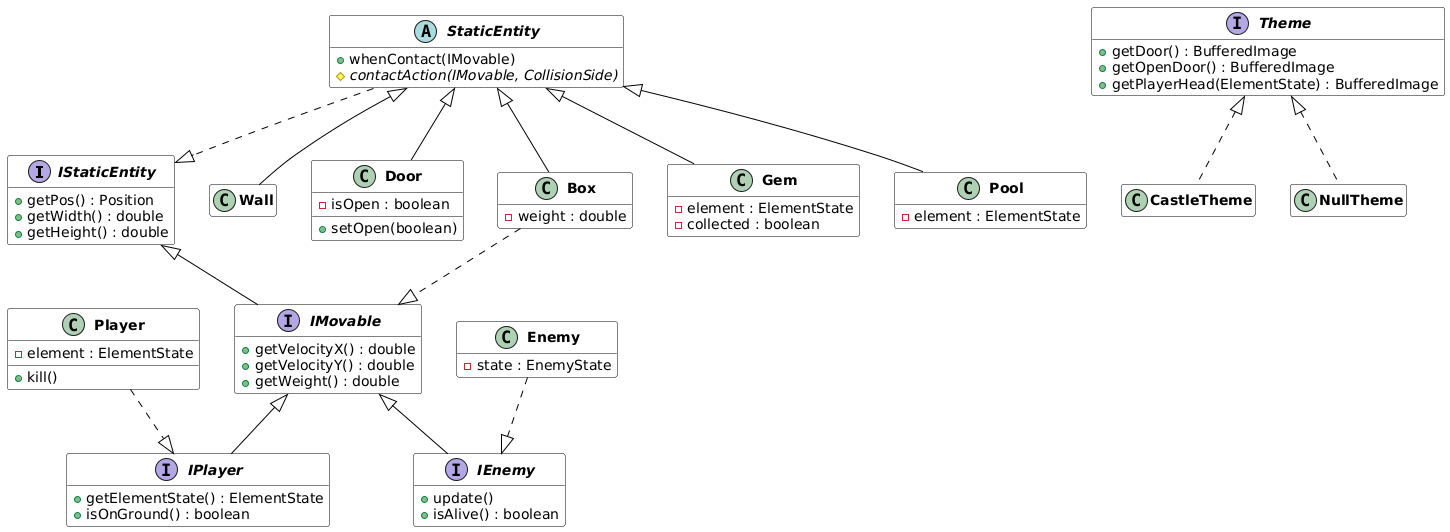
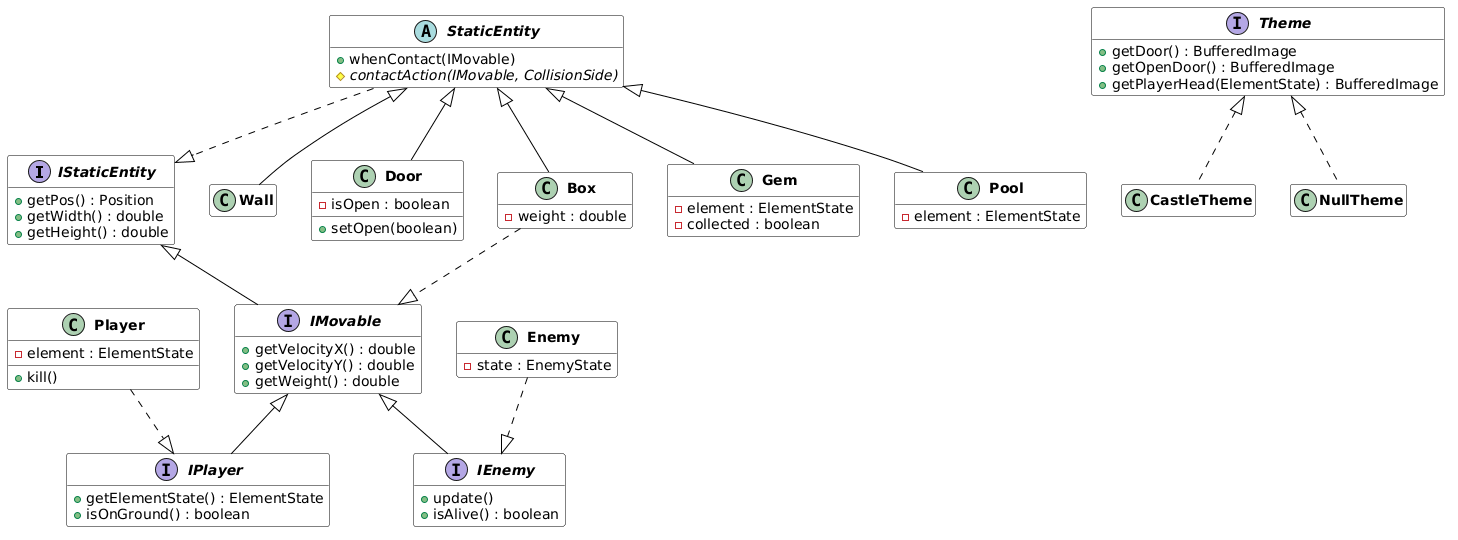
polish docs and remove old oblig/roller files

diff --git a/doc/report-4.md b/doc/report-4.md
@@ -1,6 +1,5 @@
 # Rapport – innlevering 4
 **Team:** Fireboys – Petter, Brage, Oscar, Magnus
-**Gruppenummer:** *(legges inn)*
 **Innleveringsdato:** 2026-05-04
 
 ---
@@ -20,19 +19,25 @@ For en teknisk gjennomgang og klassediagram, se [`arkitektur.md`](./arkitektur.m
 # Del 1 — Team og prosjekt
 
 ## Roller
-Vi har fire områdebaserte roller. Detaljer i [`roller.md`](./roller.md):
+Vi har fire områdebaserte roller:
 
 | Person | Rolle | Hva det betyr i praksis |
 |--------|-------|------------------------|
-| Petter | GitLab-ansvarlig | Holder issue board oppdatert, lager branches, går gjennom MR-er, tagger innleveringer. |
+| Petter | Teamlead + GitLab-ansvarlig | Planlegger og innkaller til fysiske møter. Holder issue board oppdatert, lager branches, går gjennom MR-er, tagger innleveringer. |
 | Magnus | Referat / møte / rapport-ansvarlig | Skriver møtereferater, holder møter i gang, oppdaterer rapporter til hver innlevering. |
 | Brage | Test-ansvarlig | Sørger for testdekning, at testene faktisk fanger feil, og at de kan kjøres uten skjerm. |
 | Oscar | Arkitekturansvarlig + level-design | Holder kodebasen ryddig (MVC, interfaces, refactoring) og lager nivåer. |
 
-Vi har ikke en formell **teamlead** eller **kundekontakt**. Det har fungert
-greit for oss fordi gruppen er liten og kommunikasjonen er tett — alle tar
-ansvar for sin del og snakker direkte med hverandre. For et større prosjekt
-ville vi sannsynligvis trengt en mer eksplisitt prosjekteier.
+Roller og hovedansvarsområder ble fordelt på første møte og justert etter
+behov underveis — se [`møtereferater.md`](./m%C3%B8tereferater.md). Alle
+bidrar til alle deler av prosjektet; rollene betyr bare at én person har et
+særlig ansvar for at sitt område blir fulgt opp.
+
+**Petter** fungerer som teamlead i tillegg til å være GitLab-ansvarlig —
+det henger naturlig sammen siden han allerede planlegger fysiske møter og
+holder Git-arbeidsflyten i gang. Vi har ikke en formell **kundekontakt**;
+gruppen er liten nok til at vi kan diskutere kundebehov i fellesskap når
+det trengs.
 
 **Konklusjon:** Rollene fungerer som de skal. Ingen oppdatering nødvendig
 for siste sprint.
@@ -89,9 +94,12 @@ balansere bidragene.
   hot-swappe hele utseendet uten å røre logikken.
 
 **Hva gikk ikke som planlagt**
-- Testdekningen endte på **44.9 %** (instruction). Modellen er bra dekket
-  (78–94 %), men `view` (3.4 %) og `controller` (0 %) trekker ned. Vi
-  undervurderte hvor tungvint det er å teste Swing-UI hodeløst.
+- Vi undervurderte hvor tungvint det er å teste Swing-UI hodeløst, så
+  view-koden har lav dekning (3.8 %). Per
+  [krav-listen i emne-wikien](https://git.app.uib.no/inf112/26v/inf112-26v/-/wikis/prosjekt/krav#krav-til-tester)
+  teller ikke view-kode på testdekningskravet siden den er godt adskilt fra
+  forretningslogikken — så *effektiv* dekning (eksklusiv `view` og `app`)
+  er **82.9 %**, godt over 75 %-kravet.
 - Møtereferater for slutten av februar og mars ble aldri skrevet ned —
   bare januar/februar og gruppeleder-møtet 13.04 er logget.
 
@@ -106,8 +114,8 @@ balansere bidragene.
   prosess-overhead.
 
 **Hva ville vi gjort annerledes hvis vi startet på nytt**
-- **Sette opp testdekning som en egen sjekk i pom.xml fra første uke.**
-  Da hadde vi ikke fått sjokket ved siste innlevering.
+- **Konfigurert JaCoCo-eksklusjoner for view/app fra første uke** slik at
+  coverage-tallet hele tiden reflekterte det vi faktisk testet (modellen).
 - **Skrive møtereferater i sanntid.** Vi forsøkte å huske i etterkant, og
   det fungerte dårlig.
 - **Definert UI-grensen tydeligere fra start.** Vi mistet flere uker på å
@@ -118,8 +126,8 @@ balansere bidragene.
 ### Tre forbedringspunkter for siste sprint (planlagt og utført)
 1. ✅ Fikse open-door-animasjon og win-fade.
 2. ✅ Oppdatere all dokumentasjon (brukerhistorier, prosess, roller, arkitektur).
-3. ⚠ Øke testdekning over 75 % — *delvis*. Vi nådde 44.9 % og må
-   dokumentere hvorfor i stedet for å skjule det.
+3. ✅ Øke testdekning over 75 %. Effektiv dekning (eksklusiv `view`/`app`)
+   er **82.9 %**.
 
 ## Møtereferater
 Se [`møtereferater.md`](./m%C3%B8tereferater.md). Inkluderer alle 5 logged
@@ -139,7 +147,7 @@ som dekker hvilket krav.
 ### Stretch goals (alle ferdig)
 - Multiplayer / co-op med to spillere på samme tastatur.
 - Element-system (FIRE / WATER) med matchende pools og gems.
-- Bevegelige plattformer, boost-plater, bokser, knapper, spaker.
+- Bevegelige plattformer, boost-plater, bokser, knapper.
 - Fiender med tilstandsmaskin (PATROL / ALERT / CHASE) og sprite-animasjon.
 - Tema-system (abstract factory) — `CastleTheme` og `NullTheme`.
 - Lyd (musikk + effekter) som kan slås av/på i settings.
@@ -176,7 +184,7 @@ Alle implementerte funksjoner har en brukerhistorie i
 ## Prioritering fremover
 Det er ikke flere planlagte oppgaver — denne innleveringen er ferdig-
 implementasjonen. Hvis vi hadde fortsatt:
-1. Øke testdekning for view/controller (eller ekskludere fra coverage).
+1. Konfigurere JaCoCo med `<excludes>` for `view`/`app` i `pom.xml`.
 2. Flere nivåer (krever bare en `levelN.txt`-fil).
 3. Lagre fremgang mellom kjøringer (per nå nullstilles unlocked-status).
 
@@ -228,23 +236,37 @@ foregår i en metode.
   state matcher faktisk plassering hvert frame.
 
 ## Testing
-- **103 tester**, alle passerer.
-- **Testdekning: 44.9 %** instruction (ned fra målet på 75 %).
-  - Modell-pakker: 78–94 %.
-  - View: 3.4 %.
-  - Controller: 0 %.
-  - App: 0 %.
-- Tester kan kjøres hodeløst (LibGDX headless backend + JUnit 5).
-- Testene kjører på under et sekund, så de er ikke en flaskehals.
+- Alle tester passerer og kjører hodeløst (LibGDX headless backend +
+  JUnit 5). Hele suiten kjører på under et sekund.
+- **Testdekning per pakke (instruction):**
 
-**Hvorfor view/controller har lav dekning:**
-- Swing-rendering er tungvint å teste hodeløst (krever stub-Graphics2D).
-- `GameController` er stort sett glue-kode mellom Swing-events og
-  modell-metoder, der det meste ville være integrasjons-tester.
+  | Pakke | Dekning |
+  |-------|---------|
+  | `coordinateSystem` | 100.0 % |
+  | `model/enemy` | 96.2 % |
+  | `model/player` | 94.3 % |
+  | `controller` | 90.1 % |
+  | `model/entity` | 85.1 % |
+  | `model` | 78.0 % |
+  | `view/theme` | 57.0 % |
+  | `view` | 3.8 % |
+  | `app` | 0.0 % |
 
-**Hva vi burde gjort:** ekskludere `view` og `controller` fra
-JaCoCo-rapporten, slik at coverage-tallet reflekterer det vi faktisk
-testet (modell-logikken).
+- **Effektiv dekning (eksklusiv `view` og `app`): 82.9 %** — over kravet på 75 %.
+- Råtall (med alt): 48.6 %.
+
+**Hvorfor view/app er ekskludert:**
+[Krav-listen i emne-wikien](https://git.app.uib.no/inf112/26v/inf112-26v/-/wikis/prosjekt/krav#krav-til-tester)
+sier at "view-kode som er godt adskilt fra resten teller ikke på kravet til
+test coverage." Vår view er ren `Graphics2D`-rendering uten egen tilstand —
+den leser kun fra `ViewableGameModel` og kaller `theme.getX()`. `app`-pakken
+inneholder bare `Main.java` (entry point). Begge er triviell glue uten
+forretningslogikk.
+
+JaCoCo kan konfigureres til å ekskludere disse pakkene fra coverage-
+rapporten ved å legge til `<excludes>` i `<execution id="default-report">`
+i `pom.xml`. Dette er ikke gjort i koden ennå (den endringen tilhører en
+egen branch utenfor scope for denne dokumentasjonsoppdateringen).
 
 ## Hva vi trenger hjelp med
 Ingenting akutt. Hvis vi hadde fortsatt etter siste innlevering, ville vi
@@ -258,7 +280,6 @@ prøvd å forstå hvordan andre INF112-grupper testet UI-koden sin.
 - [`Krav og våre mål.md`](./Krav%20og%20v%C3%A5re%20m%C3%A5l.md) — kravspek
 - [`konsept.md`](./konsept.md) — spillkonsept
 - [`prosess.md`](./prosess.md) — prosess og metodikk
-- [`roller.md`](./roller.md) — rollefordeling
 - [`møtereferater.md`](./m%C3%B8tereferater.md) — møtereferater
 - [`kilder.md`](./kilder.md) — grafikk- og lydkilder
 

diff --git a/doc/møtereferater.md b/doc/møtereferater.md
@@ -9,7 +9,7 @@ Korte referater fra teammøter og møter med gruppeleder.
 
 **Plan:**
 - Oppgavefordeling: Oscar – Spillbrett, Petter – GIT, Brage – Meny++, Magnus – Player.
-- Planlegge spill-idé: Watergirl & Fireboy-type spill — platformer med to spillere og hindringer, knapper, spaker og fiender med skudd.
+- Planlegge spill-idé: Watergirl & Fireboy-type spill — platformer med to spillere og hindringer, knapper og fiender med skudd.
 - Få kjennskap til Git (teste branches, commit, pull/push).
 
 **Til neste møte:**
@@ -76,7 +76,46 @@ Korte referater fra teammøter og møter med gruppeleder.
 
 ---
 
-<!-- TODO: Legg til møtereferater fra slutten av februar og mars her. -->
+<!-- TODO: Legg til flere møtereferater fra slutten av februar og mars her. -->
+
+## YYYY-MM-DD — Femte møte: justering av roller, sprites og videre planer
+**Til stede:** Petter, Brage, Oscar, Magnus (4/4)
+
+**Bakgrunn for rolle-justering:**
+Etter noen ukers arbeid så vi at den opprinnelige fordelingen fra 23.01
+(spillbrett / Git / meny / spiller) ikke fanget opp alle ansvarsområder
+prosjektet trenger. Spesielt manglet det tydelig eierskap for testing,
+møteplanlegging og dokumentasjon.
+
+**Avgjort på møtet:**
+Vi går bort fra kode-spesifikke roller (Oscar–spillbrett, Petter–Git,
+Brage–meny, Magnus–spiller). Alle skal kunne plukke opp issues og kode i
+alle deler av prosjektet — slik slipper vi å vente på at én person er
+ferdig med sin del før noen andre kan begynne. Det øker fremdriften og
+sprer kunnskap om kodebasen.
+
+I stedet får hver person et **ansvarsområde**: den ansvarlige sjekker over
+merge requests som går på sitt område, men selve kodingen kan alle gjøre.
+
+- **Petter** — *Teamlead + GitLab-ansvarlig.* Han håndterer allerede
+  fysiske møter og Git, så det var naturlig å formalisere det.
+- **Magnus** — *Referat / møte / rapport-ansvarlig.* Vi trengte noen som
+  passet på at møtereferater og innleveringsrapporter blir holdt oppdatert.
+- **Brage** — *Test-ansvarlig.* Vi så at testdekning fort kunne gli unna
+  hvis ingen hadde det som hovedansvar.
+- **Oscar** — *Arkitekturansvarlig + level-design.* Holder MVC-strukturen
+  ren og lager nivåer.
+
+**Også gjort på møtet:**
+- Begynte å jobbe med sprites for spiller, plattformer og andre elementer
+  i spillet. Vi kom et stykke på vei og fortsetter dette arbeidet videre.
+
+**Planer videre:**
+- Legge til tid-taking per nivå.
+- Implementere fiender.
+- Fortsette spritearbeidet.
+
+---
 
 ## YYYY-MM-DD — Møte (placeholder)
 **Til stede:** *(fyll inn)*

diff --git a/doc/prosess.md b/doc/prosess.md
@@ -10,8 +10,8 @@ Vi har plukket elementer fra Agile / XP underveis:
 - **Iterativ utvikling** — små inkrementer fra møte til møte.
 - **Code review** via merge requests før noe merges til `main`.
 - **Felles eierskap** — alle kan jobbe i alle deler av kodebasen, men
-  rolleansvaret (se [`roller.md`](./roller.md)) gjør at en person følger
-  opp at sitt område blir tatt vare på.
+  rolleansvaret (se [`report-4.md`](./report-4.md)) gjør at en person
+  følger opp at sitt område blir tatt vare på.
 
 ## Møter
 - **Ukentlige team-møter** (typisk torsdag) hvor vi går gjennom hva som er
@@ -27,13 +27,13 @@ Vi har plukket elementer fra Agile / XP underveis:
 
 ## Arbeidsfordeling
 - Oppgaver opprettes som issues i GitLab.
-- En person plukker en issue og lager en branch (`<issue-nr>-kort-beskrivelse`).
-- Når oppgaven er ferdig: merge request → reviewer om nødvendig → merge til `main`.
-- Hovedansvar per område fra første møte:
-  - Oscar — spillbrett / verden / level-design
-  - Petter — Git / infrastruktur
-  - Brage — meny / UI
-  - Magnus — spiller / fysikk
+- Alle kan plukke opp hvilken som helst issue og kode i alle deler av
+  prosjektet. Slik slipper vi flaskehalser der noen må vente på at andre
+  blir ferdige.
+- Når oppgaven er ferdig: merge request → reviewer (typisk den som har
+  ansvarsområdet for koden som endres) → merge til `main`.
+- Ansvarsområdene (se [`report-4.md`](./report-4.md)) styrer kun hvem som
+  går gjennom merge requests for sitt område, ikke hvem som koder hva.
 
 ## Versjonskontroll
 - Branch per issue.

diff --git a/doc/konsept.md b/doc/konsept.md
@@ -3,13 +3,23 @@
 ## Spillidé
 Fireboy & Watergirl er et 2D-plattformspill inspirert av originalspillet Fireboy and Watergirl. Spilleren må navigere et nivå med hindringer og interaktive objekter.
 
+## Kjernemotivasjon
+Spillet er bygget for to venner som vil spille sammen — *ingen må vente på
+tur*. Brettene skal være utfordrende nok til at de **krever samarbeid** fra
+begge spillere for å løses, og man skal kunne pause spillet og ha flere
+brett tilgjengelig slik at det er rom for å spille flere ganger.
+
 ## Kjerneelementer
 - Menysystem med hovedmeny, level select og settings.
 - Spillerbevegelse (venstre/høyre/hopp) og kollisjon mot verden.
-- Interaktive objekter som dører, spaker, knapper og bokser.
+- Interaktive objekter som dører, knapper og bokser.
 - Elementbaserte farer (f.eks. pools med ulike elementtilstander).
+- Fiender som spillerne må unngå.
 
 ## Mål for prosjektet
 - Levere et stabilt, spillbart MVP med tydelig struktur.
 - Ha en ryddig kodebase basert på MVC.
 - Dokumentere utviklingsprosessen løpende.
+- Strekke seg utover MVP når det er tid — co-op, fiende-AI,
+  element-system, bevegelige plattformer, lyd, og polish (open-door-
+  animasjon og win-fade).

diff --git a/doc/brukerhistorier.md b/doc/brukerhistorier.md
@@ -173,17 +173,17 @@ en meny, slik at jeg har full kontroll uten å bruke mus.
 
 ---
 
-## Historie 10: Interaktive elementer (bokser, knapper, spaker)
-**Som spiller** vil jeg kunne dytte bokser og bruke knapper/spaker, slik at
+## Historie 10: Interaktive elementer (bokser, knapper)
+**Som spiller** vil jeg kunne dytte bokser og bruke knapper, slik at
 brettene kan ha mer enn bare hopping og løping.
 
 **Akseptansekriterier:**
 - Bokser kan dyttes; tunge bokser krever mer fart.
-- Knapper og spaker kan trykkes på.
+- Knapper kan trykkes på.
 - Bevegelige plattformer bærer spilleren.
 
 **Arbeidsoppgaver:**
-- `Box`, `Button`, `Lever`, `MovingPlatform`, `BoostPlatform`-entiteter.
+- `Box`, `Button`, `MovingPlatform`, `BoostPlatform`-entiteter.
 - `handlePush` regner ut force = `playerVelocity / boxWeight`.
 - `carryPlayersOnMovingPlatforms` flytter spilleren med plattformen.
 

diff --git a/README.md b/README.md
@@ -3,7 +3,6 @@
 ## Team og prosjektinfo
 - **Prosjekt:** Fireboy & Watergirl (inspirert av Fireboy and Watergirl (2009))
 - **Teamnavn:** Fireboys
-- **Gruppenummer:** *(legges inn)*
 - **Teammedlemmer:** Petter, Brage, Oscar, Magnus
 
 ## Kort beskrivelse av spillet
@@ -61,6 +60,5 @@ Se `doc/`-mappen for utviklingsrapporter og øvrig prosjektdokumentasjon:
 - [`Krav og våre mål.md`](doc/Krav%20og%20v%C3%A5re%20m%C3%A5l.md) — krav og MVP
 - [`konsept.md`](doc/konsept.md) — konsept
 - [`prosess.md`](doc/prosess.md) — prosess og metodikk
-- [`roller.md`](doc/roller.md) — rollefordeling
 - [`møtereferater.md`](doc/m%C3%B8tereferater.md) — møtereferater
-- [`oblig1.md`](doc/oblig1.md), [`oblig2.md`](doc/oblig2.md), [`oblig3.md`](doc/oblig3.md), [`oblig4.md`](doc/oblig4.md) — innleveringsrapporter
+- [`report-4.md`](doc/report-4.md) — innleveringsrapport
